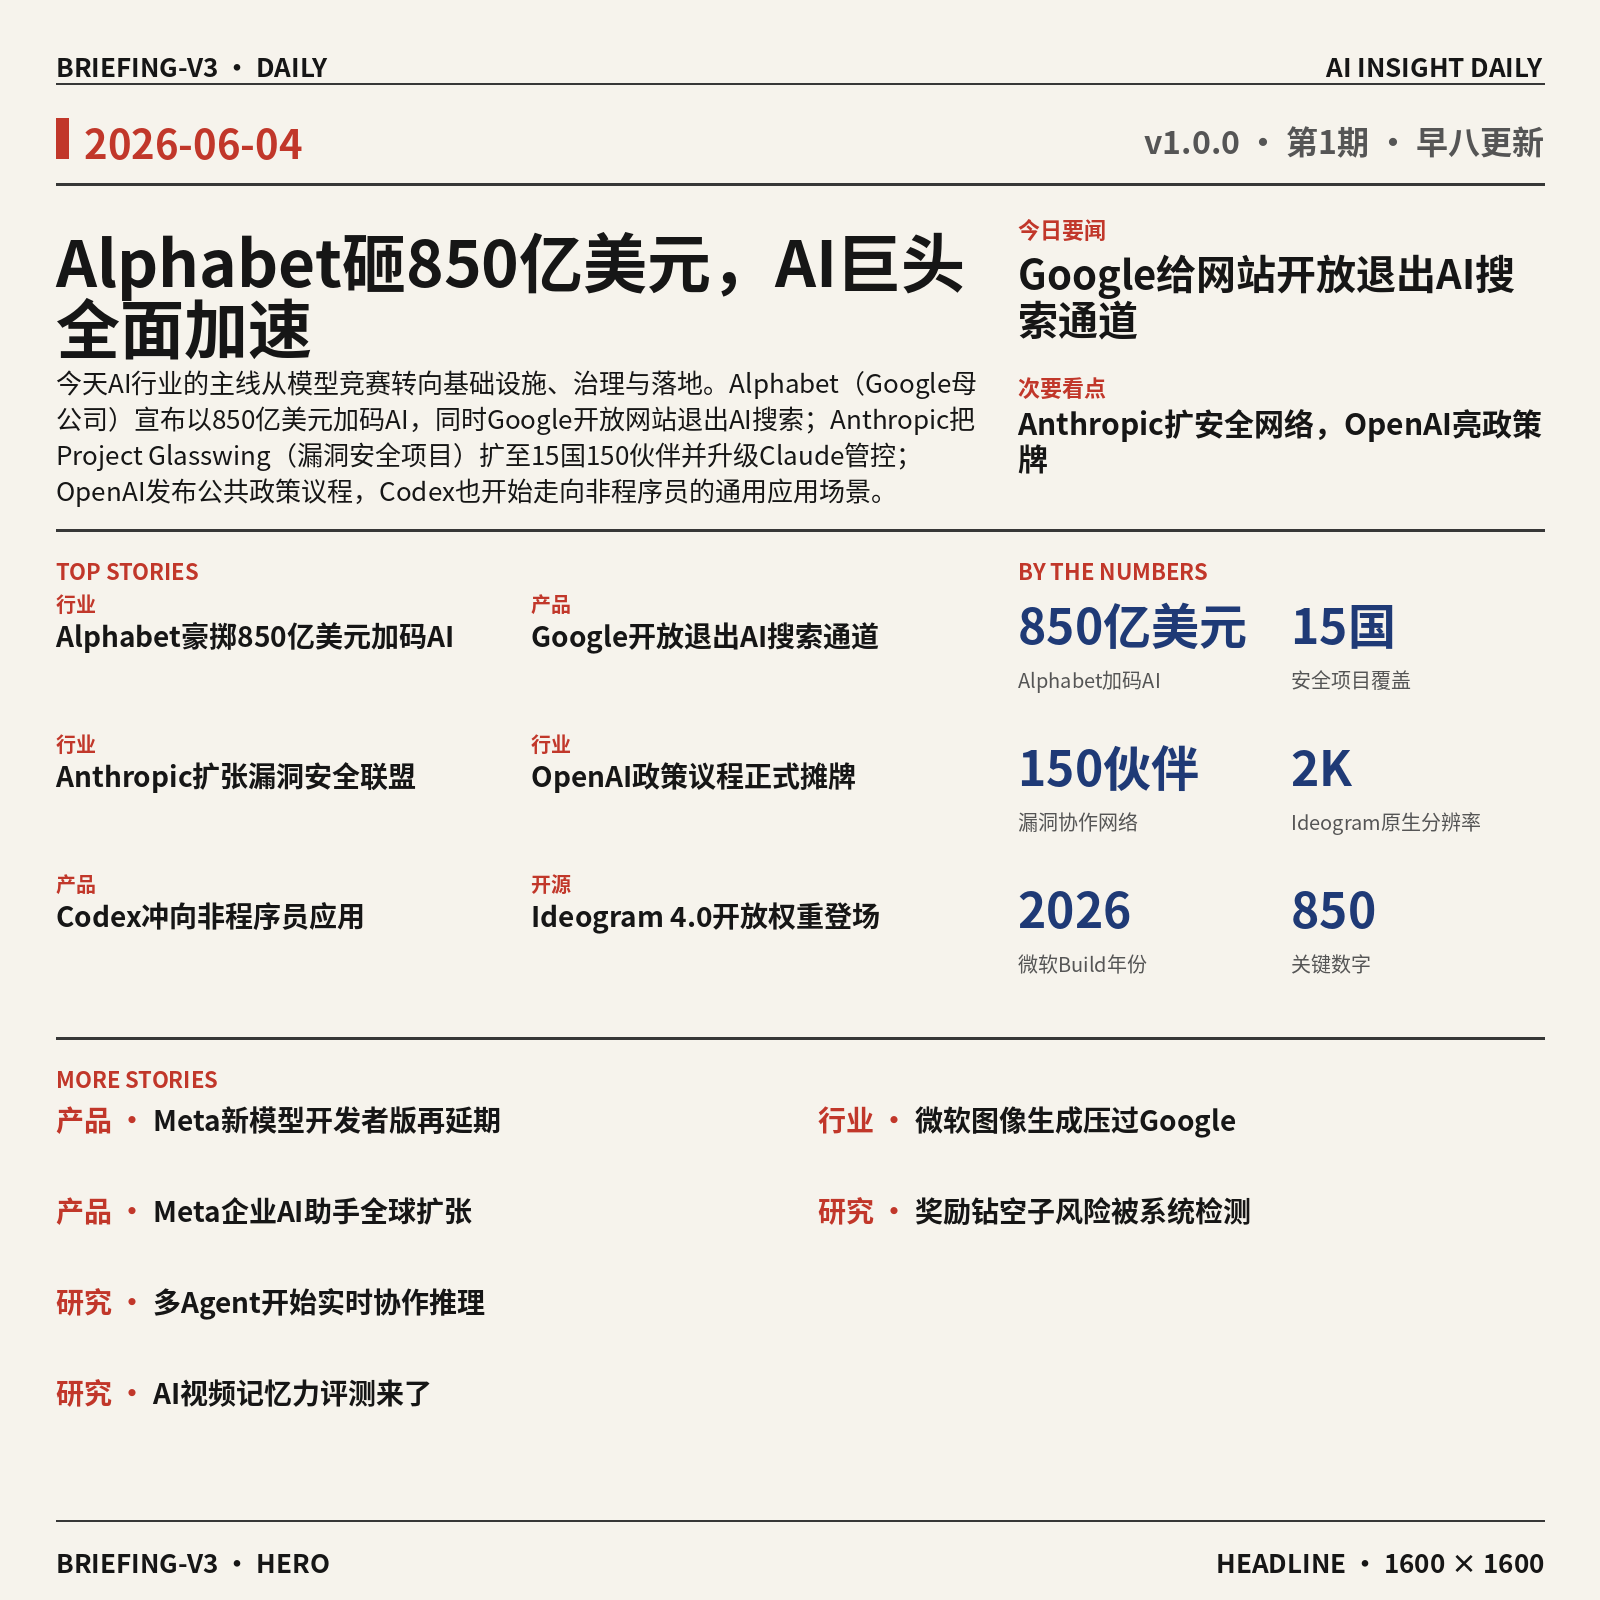
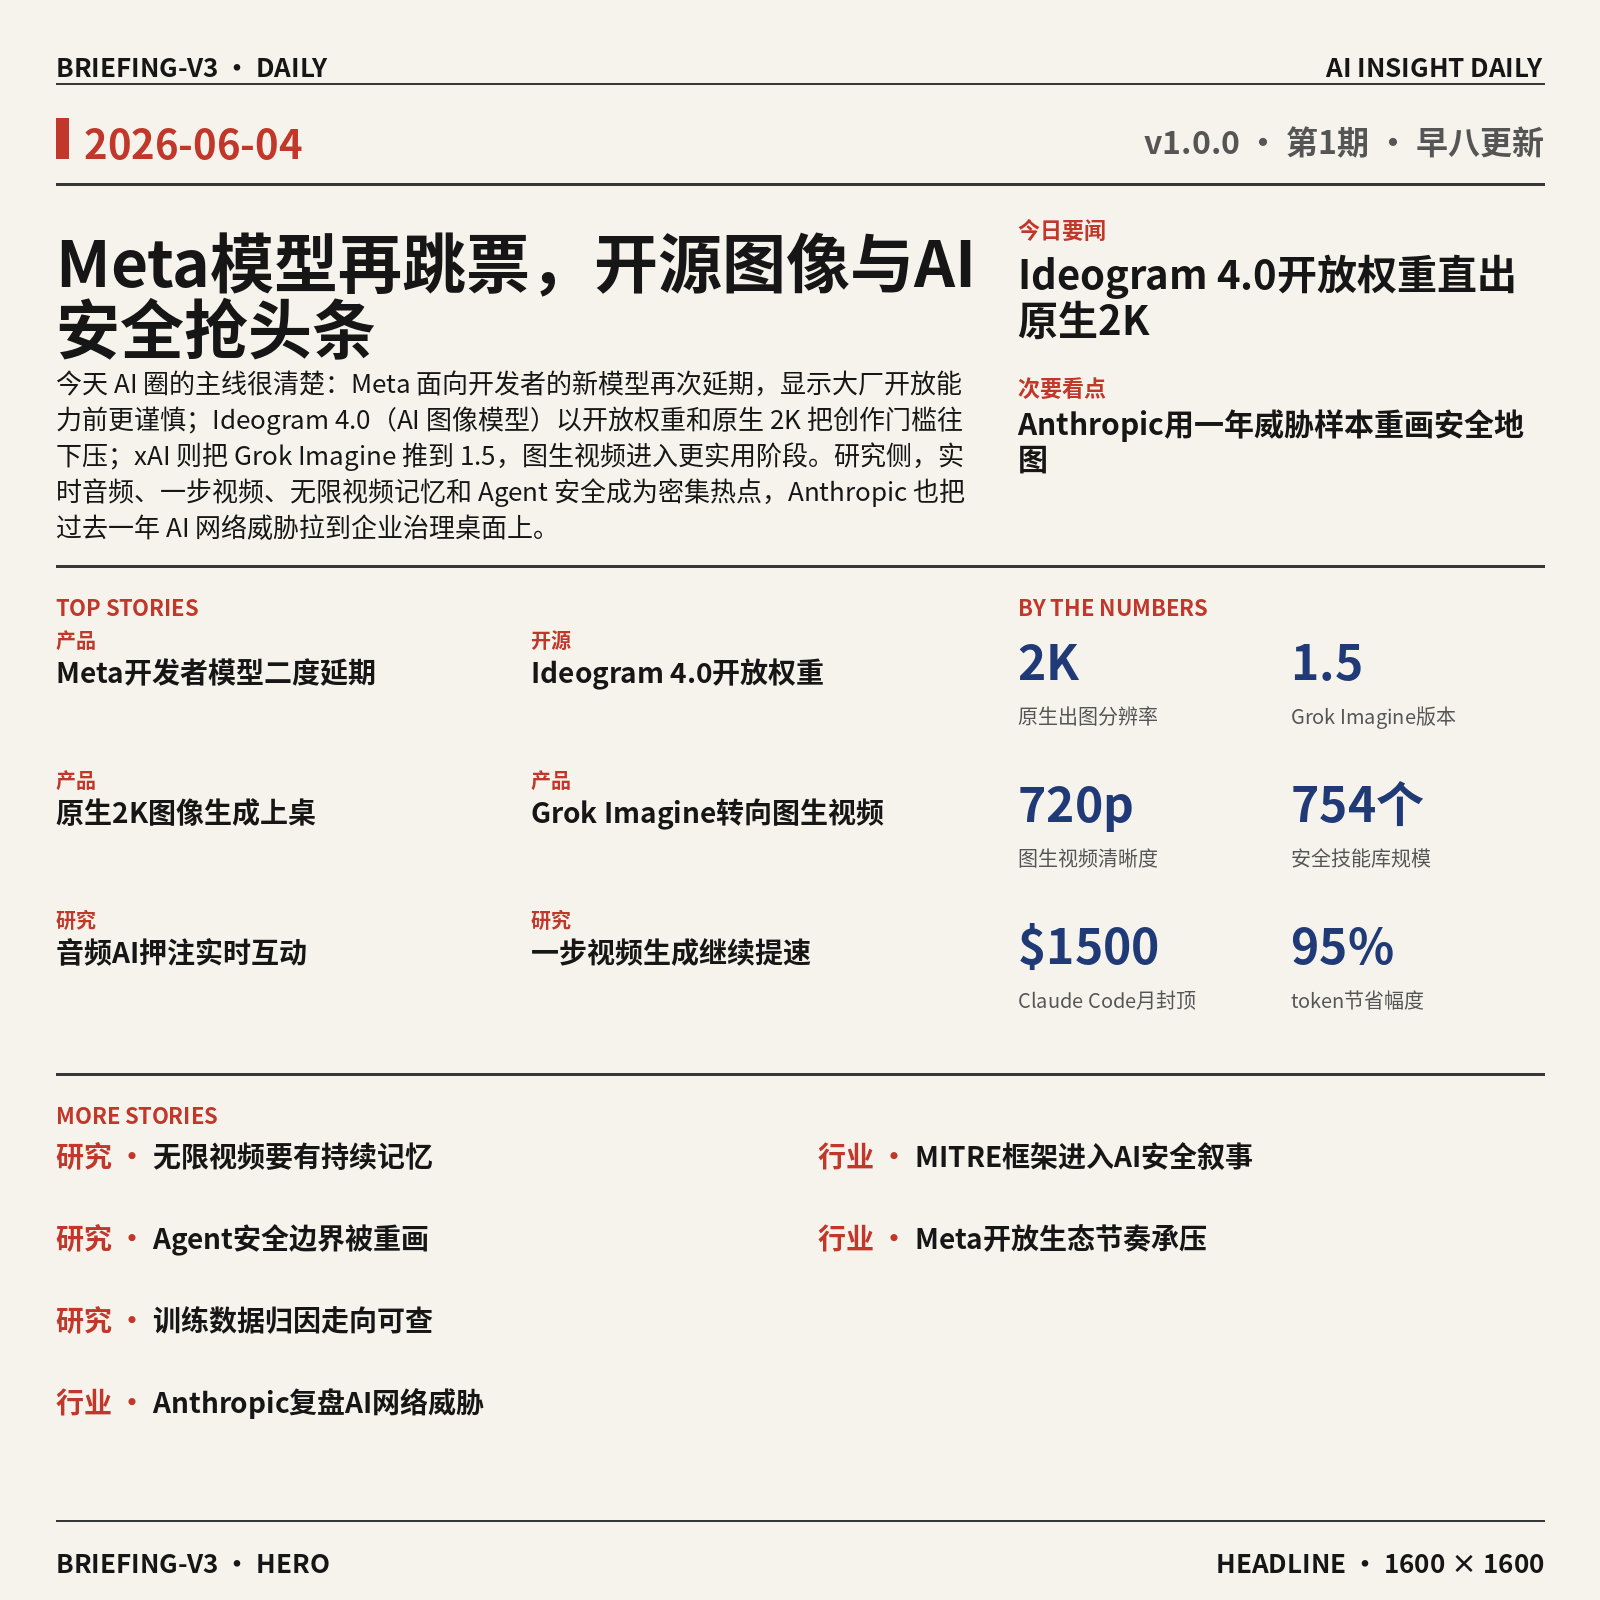
chore: daily briefing 2026-06-04

diff --git a/content/cn/_index.md b/content/cn/_index.md
@@ -29,7 +29,7 @@ AI 日报
 
 <!-- LATEST_6_CARDS_START -->
 <div class="briefing-card-grid">
-<a href="/ai-daily-site/2026/2026-06/2026-06-04/" class="briefing-card"><strong>AI资讯日报 2026/6/4</strong><br><small>Alphabet（Google母公司）850亿美元加码AI</small></a>
+<a href="/ai-daily-site/2026/2026-06/2026-06-04/" class="briefing-card"><strong>AI资讯日报 2026/6/4</strong><br><small>Meta 开发者 AI 模型二度延期，Ideogram 4.0（AI 图像模型）开放权重直上原生 2K Anthropic 披露一年 AI 网络威胁</small></a>
 <a href="/ai-daily-site/2026/2026-06/2026-06-01/" class="briefing-card"><strong>AI资讯日报 2026/6/1</strong><br><small>2026-06-01</small></a>
 <a href="/ai-daily-site/2026/2026-05/2026-05-31/" class="briefing-card"><strong>AI资讯日报 2026/5/31</strong><br><small>2026-05-31</small></a>
 <a href="/ai-daily-site/2026/2026-05/2026-05-30/" class="briefing-card"><strong>AI资讯日报 2026/5/30</strong><br><small>2026-05-30</small></a>
